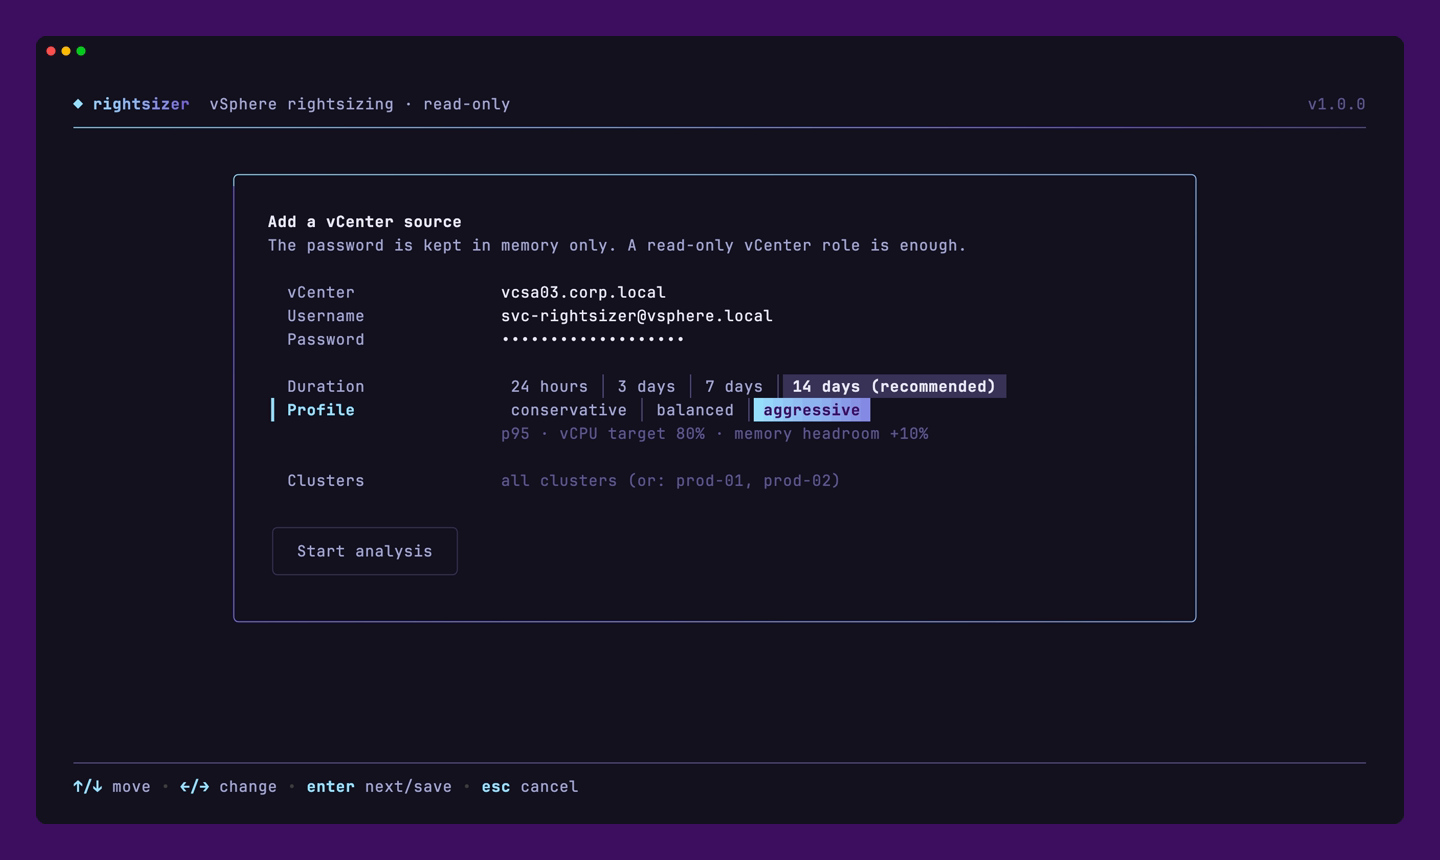
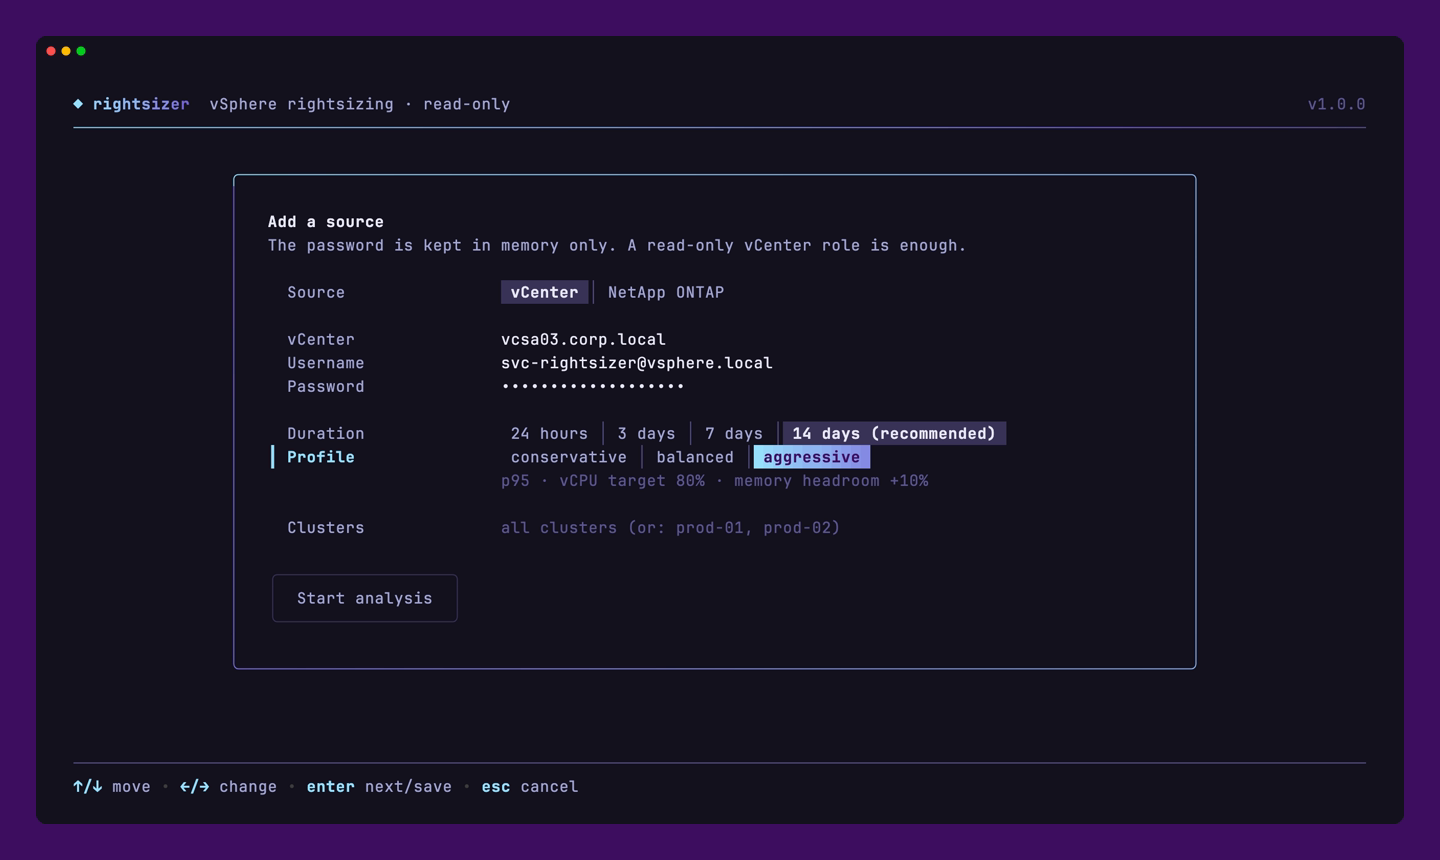
Show NetApp ONTAP in the demo recording
The tape opens the ONTAP card (new ontap.png), scrolls the sizing to the
ONTAP storage line and switches the add form's source kind. It now always
rebuilds ./rightsizer, so screenshots never come from a stale binary.

diff --git a/README.md b/README.md
@@ -24,9 +24,13 @@ rightsizer watches your VMware vCenters for 24 hours to 14 days, compares what e
 
 ## Showcase
 
-**Every vCenter on one screen**
+**Every vCenter and ONTAP cluster on one screen**
 
-![Every vCenter on one screen](docs/images/home.png)
+![Every vCenter and ONTAP cluster on one screen](docs/images/home.png)
+
+**NetApp ONTAP data reduction and load**
+
+![NetApp ONTAP data reduction and load](docs/images/ontap.png)
 
 **Totals, clusters and CPU trends**
 
